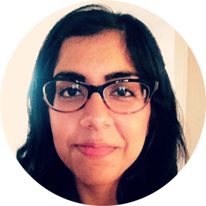
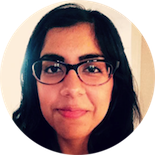
new photo, made footer into list, a few tweaks

diff --git a/site/index.html b/site/index.html
@@ -21,7 +21,7 @@
 	<link rel="stylesheet" href="stylesheets/skeleton.css">
 	<link rel="stylesheet" href="stylesheets/layout.css">
 	<link rel="stylesheet" href="stylesheets/styles.css">
-	<link href='http://fonts.googleapis.com/css?family=Lato' rel='stylesheet' type='text/css'>
+	<link href='http://fonts.googleapis.com/css?family=Lato:400,400italic' rel='stylesheet' type='text/css'>
 
 	<!--[if lt IE 9]>
 		<script src="http://html5shim.googlecode.com/svn/trunk/html5.js"></script>
@@ -50,23 +50,24 @@
 
 			<p>Hello. I'm Ruhee. I'm a front-end developer, musician and sports fan in Toronto, Ontario.</p>
 
-			<img src="images/ruhee2.png" class="right" />
+			<img src="images/ruhee3.png" class="right" />
 
-			<p>I work for a biomedical communications company, building small iOS applications using web technologies. I also have a music degree and play in a few bands now and again, which is tremendously fun. Here's a <a href="http://www.southernsouls.ca/entire-cities/">video we made</a> at the CNE, and another band <a href="http://www.southernsouls.ca/del-bel/">at a church</a>.</p>
+			<p>I work for a biomedical communications company building small iOS applications using web technologies. I also have a music degree and play in a few bands now and again, which is tremendously fun. Here's a <a href="http://www.southernsouls.ca/entire-cities/">video we made</a> at the CNE, and another band <a href="http://www.southernsouls.ca/del-bel/">at a church</a>.</p>
 
-			<p>Ethical delectus leggings sint exercitation tempor. Sed hashtag Schlitz craft beer selvage, bespoke est anim put a bird on it ethnic slow-carb Helvetica. Cardigan photo booth aesthetic, culpa try-hard slow-carb Cosby sweater cray eiusmod twee PBR nostrud literally. Flannel iPhone pour-over deserunt Blue Bottle. Cliche narwhal irure proident, fugiat wayfarers tote bag. Single-origin coffee meggings paleo flannel, gentrify nostrud adipisicing accusamus locavore kitsch skateboard in disrupt blog. Aliqua drinking vinegar veniam Intelligentsia incididunt tattooed.</p>
+			<p>I really like sports, especially baseball, which I <a href="http://doubleswitching.com">sometimes write about</a>. I'm also currently <a href="http://blog.ruhee.ca/movies">watching the IMDb Top 250</a> list, and I write short posts after every film. Other things I'm into include paper crafts and hand lettering, baking, reading (I'm on the Giller-nominated <i>How to Get Along With Women</i>, by Elisabeth de Mariaffi), watching <a href="http://flames.nhl.com">my hockey team</a>, and listening to as much music as I can get my hands on.</p>
 			
 			<p>This website uses <a href="http://getskeleton.com">Skeleton</a>, a responsive framework.</p>
 			<hr />
 		</div>	
 		<div class="twelve columns offset-by-two bottom">
-			<a href="http://twitter.com/ruhee_">twitter</a> |
-			<a href="http://instagram.com/ruhee_">instagram</a> |
-			<a href="http://blog.ruhee.ca">tumblr</a> |
-			<a href="http://www.goodreads.com/ruhee">goodreads</a> |
-			<a href="http://doubleswitching.com">baseball</a> | 
-			<a href="http://ruhee.ca/_/">gifs</a> |
-			<a href="mailto:me@ruhee.ca">email</a>
+			<ul class="footer">
+				<li><a href="http://twitter.com/ruhee_">twitter</a> |</li>
+				<li><a href="http://instagram.com/ruhee_">instagram</a> |</li>
+				<li><a href="http://blog.ruhee.ca">tumblr</a> |</li>
+				<li><a href="http://www.goodreads.com/ruhee">goodreads</a> |</li>
+				<li><a href="http://doubleswitching.com">baseball</a> | </li>
+				<li><a href="mailto:me@ruhee.ca">email</a></li>
+			</ul>
 		</div>
 	</div><!-- container -->
 

diff --git a/site/stylesheets/styles.css b/site/stylesheets/styles.css
@@ -12,10 +12,22 @@
 .bottom{
 	font: 14px/21px "Lato", "Helvetica Neue", Helvetica, Arial, sans-serif;
 	color: #666;
+	padding-bottom:20px;
 }
 
  .right{
  	float:right; 
  	margin:0 0 1em 1em;
  	border:;
+ }
+
+ .footer{
+ 	margin:0;
+ 	padding:0;
+ }
+
+ .footer li{
+ 	float:left;
+ 	display:inline-block;
+ 	margin-right:4px;
  }

diff --git a/site/stylesheets/base.css b/site/stylesheets/base.css
@@ -59,6 +59,12 @@
 		background-image: url(../images/gray_jean.png);
  }
 
+ i {
+ 	font-family: "Lato", "Helvetica Neue", Helvetica, Arial, sans-serif;
+	font-style: italic;
+	font-weight: 400;
+ }
+
 
 /* #Typography
 ================================================== */
